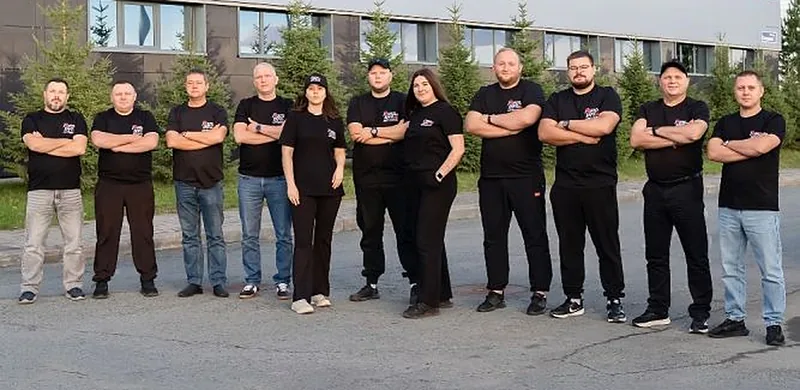
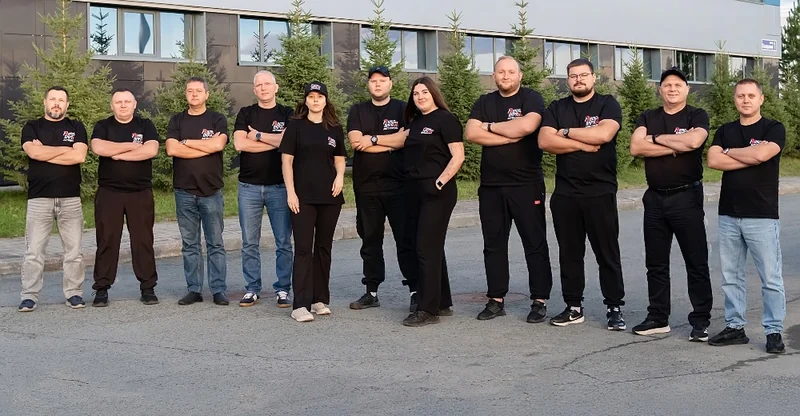
«Об автошколе»: фото команды из оригинала со старого сайта (1000 px) без искусственного увеличения и резкости
Была уменьшенная копия галереи 667 px, растянутая почти вдвое, с артефактами сжатия.
Оригинал: virazh-tomsk.ru/images/igallery/original/avtoshkola-avto-virazh--5/nat04353.jpg → design/about/.

diff --git a/src/pages/index.html b/src/pages/index.html
@@ -123,8 +123,8 @@ priority: 1.0
         <p class="ab-lead">Готовим водителей категорий B и A с 2007 года. Теория — в одном из трёх офисов в Томске или онлайн, первые занятия по вождению — на собственном автодроме в Хромовке, затем город. Инструкторы со стажем вождения от 10 до 34 лет.</p>
       </div>
       <picture class="ab-photo">
-        <source media="(max-width:719px)" srcset="/img/about/team-m.webp" width="800" height="390">
-        <img src="/img/about/team.webp" alt="Команда автошколы «Авто-Вираж»" width="1400" height="682" loading="lazy">
+        <source media="(max-width:719px)" srcset="/img/about/team-m.webp" width="800" height="416">
+        <img src="/img/about/team.webp" alt="Команда автошколы «Авто-Вираж»" width="1000" height="520" loading="lazy">
       </picture>
       <ul class="ab-nums">
         <li><b>с 2007</b><span>года учим водить</span></li>

diff --git a/assets/css/pages.css b/assets/css/pages.css
@@ -424,7 +424,7 @@ html.a11y-noimg .exit-pic{display:none!important}
 .ab-top{display:grid;gap:14px}
 .ab-lead{margin:0;font-size:16px;line-height:1.6;color:var(--muted)}
 .ab-photo{display:block;margin:0;border-radius:var(--r);overflow:hidden;background:#ddd;aspect-ratio:16/10}
-.ab-photo img{display:block;width:100%;height:100%;object-fit:cover;object-position:50% 45%}
+.ab-photo img{display:block;width:100%;height:100%;object-fit:cover;object-position:50% 32%}
 .ab-nums{list-style:none;margin:-64px 12px 0;padding:18px 8px;position:relative;z-index:2;background:#fff;border-radius:var(--r);box-shadow:0 18px 50px rgba(0,0,0,.10);display:grid;grid-template-columns:repeat(2,minmax(0,1fr));row-gap:16px}
 .ab-nums li{display:grid;gap:4px;align-content:start;padding:0 12px;border-left:1.5px solid #E6E6E6}
 .ab-nums li:nth-child(odd){border-left:0}
